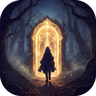
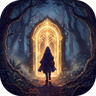
Use the gate Miki picked: a darker forest with the better traveller (#28)
Miki picked a third-round picture: the gate painted afresh in a darker, denser forest of ferns
and undergrowth, with the better drawn traveller put into it by Nano Banana 2.1. The hero
serves it at 2000 px, at WebP quality 78 so its extra detail stays within the 220 KB budget
(205 KB). The favicon, touch icon, brand mark and link previews follow the app's icon, which is
painted from the same picture (Mikigb77/PlayableAnime). scripts/repaint.py gains the fresh and
swap steps, with the exact prompts that painted it.

Claude-Session: https://claude.ai/code/session_013H8x9KALpP3M9dFJdQZhvw

diff --git a/scripts/repaint.py b/scripts/repaint.py
@@ -1,17 +1,22 @@
 """Repaints a picture at 4K with Gemini on Vertex AI, keeping its design. The hero's gate was made
-with it (scripts/prepare_images.py, gate.png), in two steps after scripts/upscale.py:
+with it (scripts/prepare_images.py, gate.png), in four steps after scripts/upscale.py:
 
     python3 scripts/repaint.py gate-x4.png out --variant faithful --model gemini-3-pro-image
+    python3 scripts/repaint.py gate-x4.png out --variant fresh --model gemini-nano-banana-2.1
     python3 scripts/repaint.py out/faithful-gemini-3-pro-image.png out --variant traveller \\
         --model gemini-nano-banana-2.1
+    python3 scripts/repaint.py out/fresh-gemini-nano-banana-2.1.png out --variant swap \\
+        --traveller out/traveller-gemini-nano-banana-2.1.png --model gemini-nano-banana-2.1
 
-- gate-x4.png is the Real-ESRGAN upscale of the app icon's painting (scripts/upscale.py). The
-  faithful step paints it again at 4096 px with nothing moved, which cleans up the upscale's
-  smudges; the traveller step then draws the cloaked traveller with more care (robe folds, a
-  buckled satchel, cuffed boots, a rim of light) and leaves the rest of the scene alone. Its
-  picture, out/traveller-gemini-nano-banana-2.1.png, is gate.png: Miki picked it over Gemini 3
-  Pro Image's for the traveller's detail.
-- The reference goes to the model as a 2048 px JPEG. Gemini paints a new picture each time, so a
+- gate-x4.png is the Real-ESRGAN upscale of the app icon's painting (scripts/upscale.py).
+- faithful paints it again at 4096 px with nothing moved, which cleans up the upscale's smudges,
+  and traveller then draws its cloaked traveller with more care (robe folds, a buckled satchel,
+  cuffed boots, a rim of light).
+- fresh paints the same design afresh, with a darker, denser forest of ferns and undergrowth.
+- swap keeps fresh's forest and puts traveller's traveller in it, lit by the forest's own light.
+  Its picture, out/swap-gemini-nano-banana-2.1.png, is gate.png: Miki picked it from three
+  rounds of pictures (2026-11-10).
+- Each picture goes to the model as a 2048 px JPEG. Gemini paints a new picture each time, so a
   second run gives a close cousin, not the same file.
 
 It runs in the playable-anime Google Cloud project on Vertex AI's global endpoint and signs in
@@ -80,6 +85,25 @@ VARIANTS = {
         "on the path. The traveller keeps the same size, pose and place, and stays a dark, "
         "readable silhouette against the light. " + STYLE
     ),
+    # The scene from --reference with the traveller from --traveller, lit by the scene's own light.
+    "swap": (
+        "You are given two images. The first image is the scene; the second image shows the "
+        "traveller to use. Repaint the first image as a crisp high-resolution 4K painting and keep "
+        "its scene exactly as it is: the same glowing golden doorway, the same trees, branches, "
+        "roots and foliage, the same mist, fireflies, light rays, colours, darkness and mood, and "
+        "the same framing, with nothing added, removed or moved. Change only the small cloaked "
+        "traveller walking into the doorway: replace them with the traveller from the second "
+        "image, copied faithfully. The same hooded ink-blue cloak with the same shape and soft "
+        "folds, the same worn leather satchel with its flap, buckle and rivets on a strap with "
+        "metal fittings across the back, the same dark trousers and cuffed leather boots, and the "
+        "same stride. Keep the traveller at the place and size of the first image's traveller, "
+        "seen from behind, walking into the doorway. Light the traveller only with the first "
+        "image's own light, as if they had always been painted in that scene: the doorway's gold "
+        "glow as a thin rim of light along the hood, shoulders, cloak hem and boots, the scene's "
+        "own cool darkness and mist in the shadows, and a shadow on the path that falls the way "
+        "the first image's light makes it fall. Take nothing else from the second image: not its "
+        "trees, mist, doorway, background, colours or lighting. " + STYLE
+    ),
 }
 
 
@@ -110,10 +134,13 @@ def as_reference(path: Path) -> bytes:
     return buffer.getvalue()
 
 
-def paint(client: genai.Client, model: str, prompt: str, reference: bytes) -> tuple[bytes, str]:
+def paint(
+    client: genai.Client, model: str, prompt: str, pictures: list[bytes]
+) -> tuple[bytes, str]:
     response = client.models.generate_content(
         model=model,
-        contents=[types.Part.from_bytes(data=reference, mime_type="image/jpeg"), prompt],
+        contents=[types.Part.from_bytes(data=p, mime_type="image/jpeg") for p in pictures]
+        + [prompt],
         config=types.GenerateContentConfig(
             response_modalities=["IMAGE"],
             image_config=types.ImageConfig(aspect_ratio="1:1", image_size="4K"),
@@ -134,11 +161,16 @@ def main() -> int:
     parser.add_argument("reference", type=Path, help="the picture to repaint")
     parser.add_argument("out", type=Path, help="the folder for the new pictures")
     parser.add_argument("--variant", action="append", choices=sorted(VARIANTS))
+    parser.add_argument("--traveller", type=Path, help="for swap: the picture to take them from")
     parser.add_argument("--model", action="append", help="defaults to every model in MODELS")
     parser.add_argument("--gcloud-config", help="sign in with this gcloud configuration's token")
     args = parser.parse_args()
 
+    variants = args.variant or ["faithful"]
+    if ("swap" in variants) != bool(args.traveller):
+        parser.error("--variant swap and --traveller go together")
     reference = as_reference(args.reference)
+    traveller = as_reference(args.traveller) if args.traveller else None
     args.out.mkdir(parents=True, exist_ok=True)
     credentials = gcloud_credentials(args.gcloud_config) if args.gcloud_config else None
     client = genai.Client(
@@ -147,10 +179,11 @@ def main() -> int:
 
     painted = 0
     for model in args.model or MODELS:
-        for name in args.variant or ["faithful"]:
+        for name in variants:
+            pictures = [reference, traveller] if name == "swap" else [reference]
             started = time.monotonic()
             try:
-                data, tokens = paint(client, model, VARIANTS[name], reference)
+                data, tokens = paint(client, model, VARIANTS[name], pictures)
             except Exception as error:  # noqa: BLE001 - report it and go on to the next model
                 print(f"{model} {name}: failed: {type(error).__name__}: {str(error)[:300]}")
                 break

diff --git a/scripts/prepare_images.py b/scripts/prepare_images.py
@@ -9,9 +9,9 @@ SOURCES_DIR holds what the site draws on, none of it kept in this repo:
   dark band for the app's title, where the model sometimes writes words of its own, so only the
   top 68 % is kept.
 - gate.png: the forest gate painting behind the app icon, the panel the icon shows, upscaled 4x
-  with Real-ESRGAN (scripts/upscale.py) and then repainted at 4096 x 4096 by Gemini with a better
-  drawn traveller (scripts/repaint.py says how). The hero shows it up to 1000 px wide, so a
-  retina screen needs 2000 px.
+  with Real-ESRGAN (scripts/upscale.py) and then repainted at 4096 x 4096 by Gemini, in a darker
+  forest with a better drawn traveller (scripts/repaint.py says how). The hero shows it up to
+  1000 px wide, so a retina screen needs 2000 px.
 - popup-world.png: a book that opens into a world, from the same round of paintings.
 - scenes/<name>.jpg: scene pictures in the house style (1376 x 768).
 - icon.png: the app's launcher icon at 512 px (PlayableAnime app/web/icons/Icon-512.png).
@@ -44,7 +44,7 @@ def main(sources: Path) -> None:
         top = image.crop((0, 0, image.width, round(image.height * COVER_KEEP)))
         save_webp(top, ASSETS / "worlds" / f"{cover.stem}.webp", 560, quality=78)
     gate = Image.open(sources / "gate.png")
-    save_webp(gate, ASSETS / "gate.webp", 2000, quality=80)
+    save_webp(gate, ASSETS / "gate.webp", 2000, quality=78)
     save_webp(Image.open(sources / "popup-world.png"), ASSETS / "popup-world.webp", 900)
     for scene in sorted((sources / "scenes").glob("*.jpg")):
         save_webp(Image.open(scene), ASSETS / "scenes" / f"{scene.stem}.webp", 1200)

diff --git a/README.md b/README.md
@@ -43,8 +43,9 @@ what to check before the Play listing, is in [docs/LEGAL.md](docs/LEGAL.md).
 
 - The gate art, the world covers and the scene pictures are the game's own, cropped and converted
   by `scripts/prepare_images.py`. The gate is the app icon's painting, upscaled 4x with
-  Real-ESRGAN (`scripts/upscale.py`) and repainted at 4K by Gemini on Vertex AI with a better
-  drawn traveller (`scripts/repaint.py`), so it stays sharp on retina screens.
+  Real-ESRGAN (`scripts/upscale.py`) and repainted at 4K by Gemini on Vertex AI, in a darker
+  forest with a better drawn traveller (`scripts/repaint.py`), so it stays sharp on retina
+  screens.
 - Link previews (`public/og/*.jpg`) are drawn from the hero's words by `scripts/og-images.mjs`.
 - Fonts are Inter and Literata (SIL Open Font License, in `src/fonts`), subset by
   `scripts/subset-fonts.sh`.
